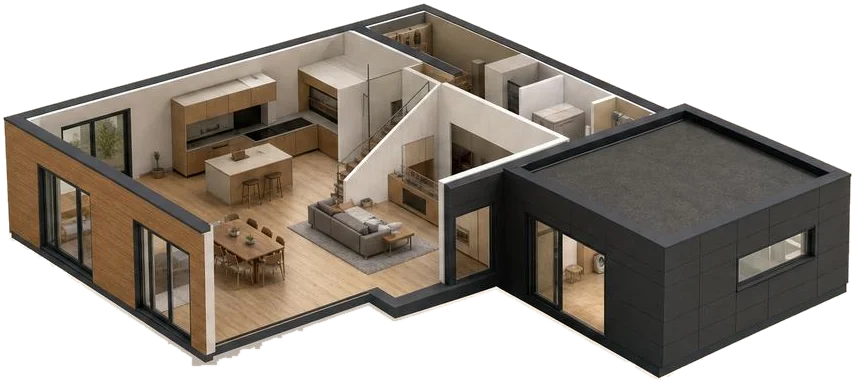
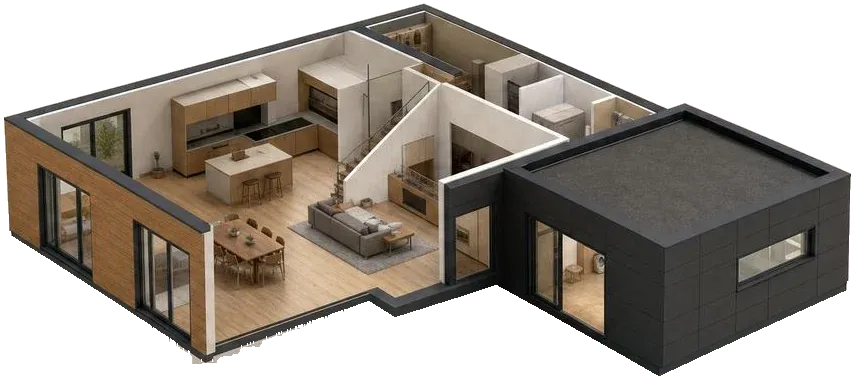
EcoDomček: AI-bible pass, part 2 — clean house layers, roof never over the words on phones
- renders/lyr-*: the slab's jagged cut-out haze replaced by a clean mask and a
  soft shadow; the light fringe and loose shadow specks off the levels' feet
- site.js (phones): mid-way through opening, the roof's top is held under the
  hero text, and on a short screen the house shrinks to fit rather than
  cover the facts; the landed and opened house end on the screen
- ART_DIRECTION 31b: performance, image-by-image, transitions, logo-cover
  and reference comparison results; the film's own artefacts left open

Claude-Session: https://claude.ai/code/session_0185BVM6PQ8B7oEkPHRwx1P3

diff --git a/clients/ecodomcek/web/src/site.js b/clients/ecodomcek/web/src/site.js
@@ -324,7 +324,7 @@
     // the landed house: as large as the room beside the words allows (to the
     // right of the headline, above the caption; on phones the full width),
     // centred in it. A film transform { s, x, y } in px, from the layout.
-    var LAND = { s: 1.3, x: 0, y: 0 }, OPEN = { s: .86, x: 0, y: 0 };
+    var LAND = { s: 1.3, x: 0, y: 0 }, OPEN = { s: .86, x: 0, y: 0 }; var FLOOR = null;
     function landAim() {
       var p = poster.getBoundingClientRect();
       var saved = act.style.transform; act.style.transform = 'none';   // the frame as laid out
@@ -351,7 +351,15 @@
       }
       // client, 2026-09-25: 40 % larger than the old fixed ×1.3 landing —
       // as far as the room allows (a phone is 1.56 at most: its width)
-      var s = Math.max(1.3, Math.min(1.3 * 1.4, (R0 - L0) / cw, (B0 - T0) / ch));
+      // phones: under the facts, never over them — a short screen (360×640)
+      // landed the house on their last line (AI-bible pass, 2026-10-11);
+      // there it may be smaller than 1.3 rather than cover words
+      var tx0 = poster.querySelector('.ptext');
+      if (!wide() && tx0) {
+        T0 = tx0.getBoundingClientRect().bottom - p.top + 10;
+        B0 = Math.max(T0 + 120, innerHeight - 10);
+      }
+      var s = Math.max(wide() ? 1.3 : .8, Math.min(1.3 * 1.4, (R0 - L0) / cw, (B0 - T0) / ch));
       var cy = Math.min(Math.max(fy, T0 + ch * s / 2), B0 - ch * s / 2);
       LAND = { s: s, x: cx - fx - s * (cx0 - fx), y: cy - fy - s * (cy0 - fy) };
       // opened (client, 2026-09-25): the levels as large as the closed house,
@@ -371,11 +379,13 @@
         U1 = innerHeight - 16;
       } else if (leg && tx) {
         U0 = tx.getBoundingClientRect().bottom - p.top + 10;
-        U1 = leg.getBoundingClientRect().top - p.top - 4;
+        // a short phone pushes the names under the screen: the house still ends on it
+        U1 = Math.min(leg.getBoundingClientRect().top - p.top - 4, innerHeight - 10);
       }
       var so = Math.max(.6, Math.min(s, (U1 - U0) / ch1));
       var oy = Math.min(Math.max(fy, U0 + ch1 * so / 2), U1 - ch1 * so / 2);
       OPEN = { s: so, x: cx - fx - so * (cx0 - fx), y: oy - fy - so * (cy1 - fy) };
+      FLOOR = { t: F.t, h: F.h, fy: fy, fx: fx, cx: cx, cx0: cx0, U0: U0 };   // apply(): the roof stays under the words
       act.style.setProperty('--os', so);                      // the numbers ride on the levels
       var ols = act.querySelector('.olabels');
       if (ols) gsap.set(ols, { x: OPEN.x, y: OPEN.y });
@@ -512,8 +522,26 @@
         var q = ease(Math.min(1, Math.max(0, (p - .04) / .72)));
         seek(END - q * (END - OPEN_T));
         // landed → opened (see landAim): the levels keep their size
-        gsap.set(film, { scale: LAND.s + (OPEN.s - LAND.s) * q, x: LAND.x + (OPEN.x - LAND.x) * q,
-          y: LAND.y + (OPEN.y - LAND.y) * q });
+        var sq = LAND.s + (OPEN.s - LAND.s) * q, yq = LAND.y + (OPEN.y - LAND.y) * q;
+        // stacked on a phone, the levels part upward faster than the film
+        // glides down: mid-way the roof rose over the last line of the facts
+        // (AI-bible pass, 2026-10-11) — its top is held under the words
+        var xq = LAND.x + (OPEN.x - LAND.x) * q;
+        if (!wide() && FLOOR) {
+          var rt = FLOOR.t + FLOOR.h * top(want), ft = FLOOR.t + FLOOR.h * BOX.b;   // roof, foot in the frame
+          var roof = FLOOR.fy + yq + sq * (rt - FLOOR.fy);
+          var u0 = FLOOR.U0 + 8;                              // a seek lags its wish by a frame or two
+          if (roof < u0) {
+            // … and on a short phone the whole house still fits above the screen's foot
+            var room = innerHeight - 10 - u0;
+            if (sq * (ft - rt) > room) {
+              sq = room / (ft - rt);
+              xq = FLOOR.cx - FLOOR.fx - sq * (FLOOR.cx0 - FLOOR.fx);
+            }
+            yq = u0 - FLOOR.fy - sq * (rt - FLOOR.fy);
+          }
+        }
+        gsap.set(film, { scale: sq, x: xq, y: yq });
         var open = p > .8;
         act.classList.toggle('open', open); poster.classList.toggle('opened', open);
       }

diff --git a/public/demos/ecodomcek/assets/site.js b/public/demos/ecodomcek/assets/site.js
@@ -324,7 +324,7 @@
     // the landed house: as large as the room beside the words allows (to the
     // right of the headline, above the caption; on phones the full width),
     // centred in it. A film transform { s, x, y } in px, from the layout.
-    var LAND = { s: 1.3, x: 0, y: 0 }, OPEN = { s: .86, x: 0, y: 0 };
+    var LAND = { s: 1.3, x: 0, y: 0 }, OPEN = { s: .86, x: 0, y: 0 }; var FLOOR = null;
     function landAim() {
       var p = poster.getBoundingClientRect();
       var saved = act.style.transform; act.style.transform = 'none';   // the frame as laid out
@@ -351,7 +351,15 @@
       }
       // client, 2026-09-25: 40 % larger than the old fixed ×1.3 landing —
       // as far as the room allows (a phone is 1.56 at most: its width)
-      var s = Math.max(1.3, Math.min(1.3 * 1.4, (R0 - L0) / cw, (B0 - T0) / ch));
+      // phones: under the facts, never over them — a short screen (360×640)
+      // landed the house on their last line (AI-bible pass, 2026-10-11);
+      // there it may be smaller than 1.3 rather than cover words
+      var tx0 = poster.querySelector('.ptext');
+      if (!wide() && tx0) {
+        T0 = tx0.getBoundingClientRect().bottom - p.top + 10;
+        B0 = Math.max(T0 + 120, innerHeight - 10);
+      }
+      var s = Math.max(wide() ? 1.3 : .8, Math.min(1.3 * 1.4, (R0 - L0) / cw, (B0 - T0) / ch));
       var cy = Math.min(Math.max(fy, T0 + ch * s / 2), B0 - ch * s / 2);
       LAND = { s: s, x: cx - fx - s * (cx0 - fx), y: cy - fy - s * (cy0 - fy) };
       // opened (client, 2026-09-25): the levels as large as the closed house,
@@ -371,11 +379,13 @@
         U1 = innerHeight - 16;
       } else if (leg && tx) {
         U0 = tx.getBoundingClientRect().bottom - p.top + 10;
-        U1 = leg.getBoundingClientRect().top - p.top - 4;
+        // a short phone pushes the names under the screen: the house still ends on it
+        U1 = Math.min(leg.getBoundingClientRect().top - p.top - 4, innerHeight - 10);
       }
       var so = Math.max(.6, Math.min(s, (U1 - U0) / ch1));
       var oy = Math.min(Math.max(fy, U0 + ch1 * so / 2), U1 - ch1 * so / 2);
       OPEN = { s: so, x: cx - fx - so * (cx0 - fx), y: oy - fy - so * (cy1 - fy) };
+      FLOOR = { t: F.t, h: F.h, fy: fy, fx: fx, cx: cx, cx0: cx0, U0: U0 };   // apply(): the roof stays under the words
       act.style.setProperty('--os', so);                      // the numbers ride on the levels
       var ols = act.querySelector('.olabels');
       if (ols) gsap.set(ols, { x: OPEN.x, y: OPEN.y });
@@ -512,8 +522,26 @@
         var q = ease(Math.min(1, Math.max(0, (p - .04) / .72)));
         seek(END - q * (END - OPEN_T));
         // landed → opened (see landAim): the levels keep their size
-        gsap.set(film, { scale: LAND.s + (OPEN.s - LAND.s) * q, x: LAND.x + (OPEN.x - LAND.x) * q,
-          y: LAND.y + (OPEN.y - LAND.y) * q });
+        var sq = LAND.s + (OPEN.s - LAND.s) * q, yq = LAND.y + (OPEN.y - LAND.y) * q;
+        // stacked on a phone, the levels part upward faster than the film
+        // glides down: mid-way the roof rose over the last line of the facts
+        // (AI-bible pass, 2026-10-11) — its top is held under the words
+        var xq = LAND.x + (OPEN.x - LAND.x) * q;
+        if (!wide() && FLOOR) {
+          var rt = FLOOR.t + FLOOR.h * top(want), ft = FLOOR.t + FLOOR.h * BOX.b;   // roof, foot in the frame
+          var roof = FLOOR.fy + yq + sq * (rt - FLOOR.fy);
+          var u0 = FLOOR.U0 + 8;                              // a seek lags its wish by a frame or two
+          if (roof < u0) {
+            // … and on a short phone the whole house still fits above the screen's foot
+            var room = innerHeight - 10 - u0;
+            if (sq * (ft - rt) > room) {
+              sq = room / (ft - rt);
+              xq = FLOOR.cx - FLOOR.fx - sq * (FLOOR.cx0 - FLOOR.fx);
+            }
+            yq = u0 - FLOOR.fy - sq * (rt - FLOOR.fy);
+          }
+        }
+        gsap.set(film, { scale: sq, x: xq, y: yq });
         var open = p > .8;
         act.classList.toggle('open', open); poster.classList.toggle('opened', open);
       }

diff --git a/clients/ecodomcek/ART_DIRECTION.md b/clients/ecodomcek/ART_DIRECTION.md
@@ -1145,3 +1145,29 @@ ani generické frázy. Opravené boli tri miesta na telefóne:
   s prázdnom medzi nimi. Oddeľovač pod plánom už nie je.
 
 Ostatné „diery“ z auditu sú zámerné prišpendlené scény (film domu, stena) a posuvné pásy na mobile.
+
+**31b — zvyšok checklistu z AI biblie (2026-10-11).**
+
+- **Výkon.** Pri načítaní 0,5–1,4 MB na stránku a LCP do 0,4 s lokálne. Telefón dostane 720p video,
+  v konzole nie sú chyby. Netreba nič meniť.
+- **AI obrázky, jeden po druhom.** Vrstvy domu (`renders/lyr-*.webp`) mali zvyšky z orezania.
+  Základová doska niesla bledý tieň so zubatým okrajom, poschodia mali biely lem na spodných hranách.
+  Doska dostala čistú masku podľa svojho tvaru a mäkký tieň, ktorý zanikne pred okrajom súboru.
+  Poschodiam sa odstránil svetlý lem a voľné škvrny starého tieňa. Opravené súbory sú v `renders/`,
+  jednorazový skript sa nekomitol.
+- **Text prekrytý animáciou (telefón).** Pri rozkladaní domu vystúpila strecha nad posledný riadok
+  čísel, lebo poschodia sa rozostupujú rýchlejšie, ako video klesá. Na krátkom telefóne (360×640)
+  ležal na číslach aj zložený dom v pokoji. Teraz je na telefóne vrch domu vždy pod textom. Ak sa
+  dom nezmestí, zmenší sa (najmenej 0,8) a otvorený dom končí na obrazovke. Zmerané podľa pixelov
+  videa na 360×640, 375×667, 390×844, 430×932, 768×1024 a 820×1180: žiadne prekrytie.
+- **Prechody medzi podstránkami.** Desktop aj telefón, 10 prechodov a 2× Späť: každá stránka
+  začína hore, bez visiaceho náhľadu a bez chýb.
+- **Test so zakrytým logom a porovnanie s referenciami.** Bez loga web jasne patrí drevostavbárovi.
+  Porovnanie s igloo, basement, refokus, lusion a exoape: tmavá scéna Stena dýcha s anotáciami
+  (igloo, lusion) obstojí. Hárok Stena na svetlom papieri je pokojnejší a menej atmosférický ako igloo.
+  Je to zámerne nástroj, nie scéna, a zostáva tak. Register realizácií je redšie ako basement,
+  zodpovedá to temperamentu klienta.
+- **Ostáva, zatiaľ neopravené.** Vo videu domu (Kling) sa v čase 1,5–2,2 s pri schodisku na okamih
+  objaví priesvitná postava a obklad sa počas skladania zmení zo strieškových dosiek na zvislé lamely.
+  Prvé snímky nesú aj starý biely lem, lebo štartovací snímok vznikol zo starých vrstiev. Oprava
+  znamená nové video (jedna platená generácia), o tom rozhodne Ondrej.
